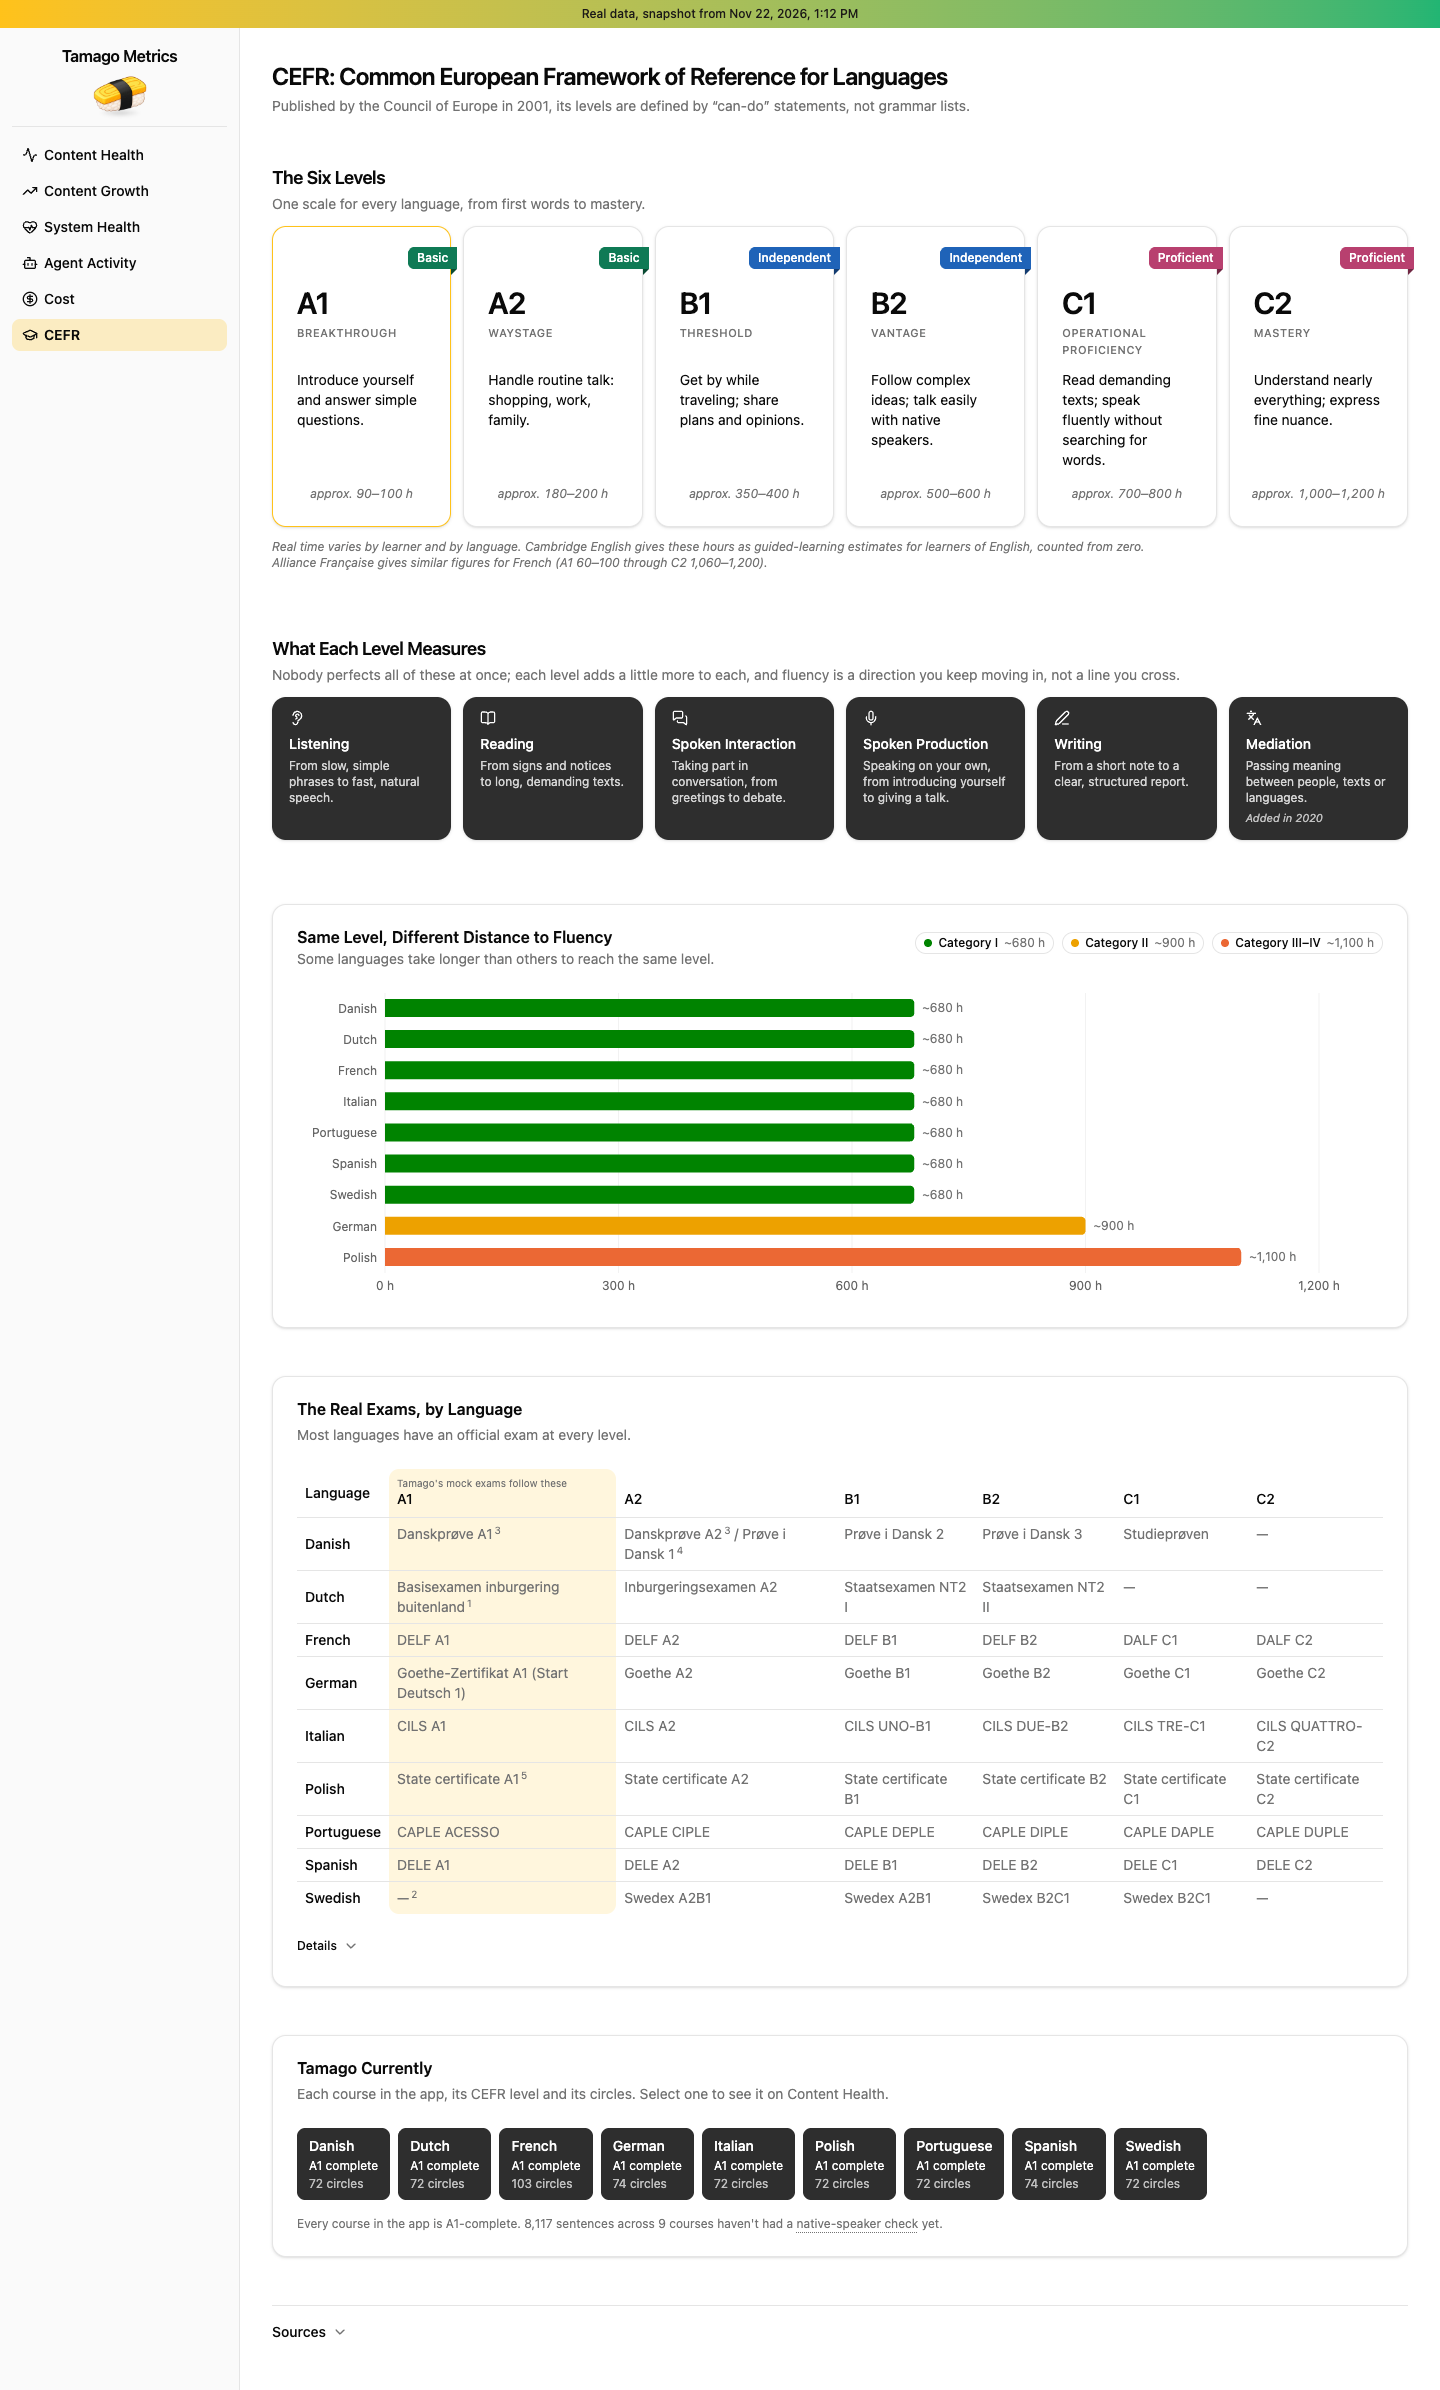
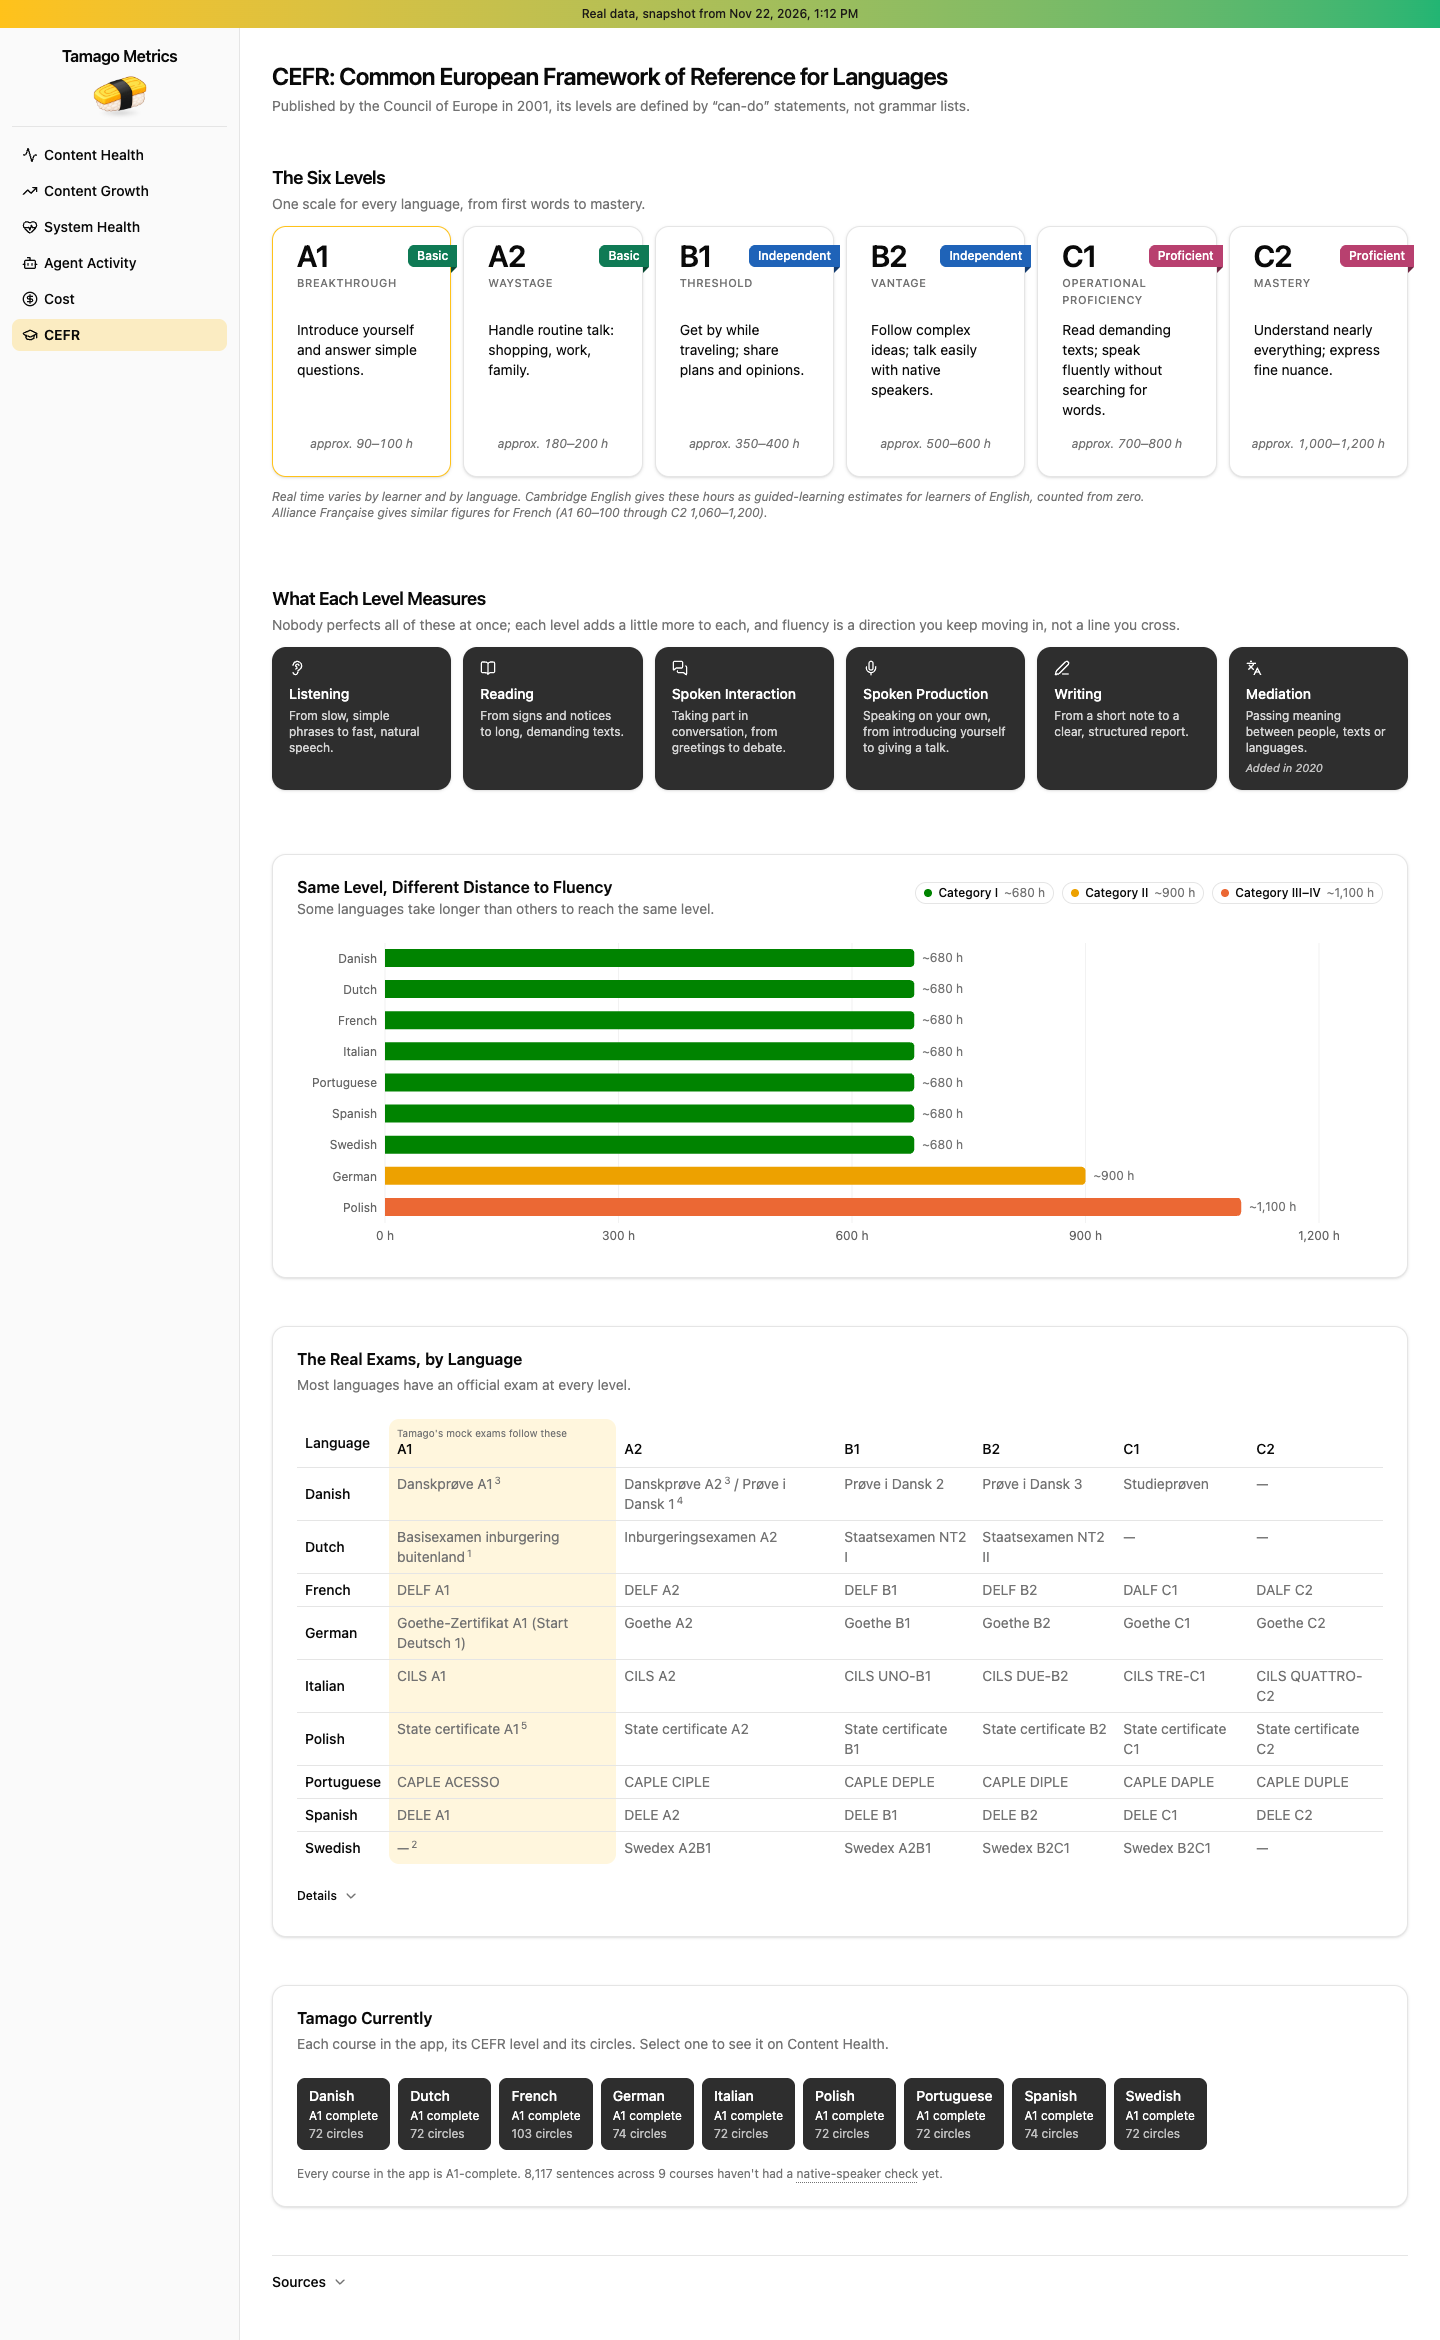
CEFR ladder: level code on the same line as its ribbon, the rest of the card moves up

diff --git a/src/layout/CefrLadder.tsx b/src/layout/CefrLadder.tsx
@@ -8,7 +8,7 @@ const shortName = new Map(cefrGroups.map((group) => [group.id, group.short]))
 
 /**
  * The six CEFR levels as a ladder of cards: six across on a wide screen, fewer as it narrows, one column on a phone.
- * Each card: the group ribbon (top right, wrapping behind the card's edge), the code and name, the can-do line, then the hours. The cards share their rows
+ * Each card: the code with the group ribbon on the same line (wrapping behind the card's edge), the name, the can-do line, then the hours. The cards share their rows
  * (subgrid), so each of those starts at the same height across a row, however long a name or a can-do line.
  * The A1 card's yellow border marks the highest level a Tamago course has completed.
  */
@@ -20,9 +20,12 @@ export function CefrLadder() {
           <li key={level.code} className="row-span-3 grid min-w-0 grid-rows-subgrid">
             <Card className={`row-span-3 grid grid-rows-subgrid gap-3 py-5 ${level.tamagoBadge ? 'border-tamago-yellow' : ''}`}>
               <CardHeader className="content-start gap-1">
-                {/* Past the header padding (24px) and the border (1px) by the ribbon's 6px overhang. */}
-                <CefrGroupRibbon group={level.group} label={shortName.get(level.group) ?? level.group} className="-mr-[31px] mb-3 justify-self-end" />
-                <p className="text-3xl font-semibold tracking-tight">{level.code}</p>
+                {/* The code and the ribbon share one line, centred on each other. The ribbon runs past the header
+                    padding (24px) and the border (1px) by its 6px overhang. */}
+                <div className="-mt-1.5 flex items-center justify-between gap-2">
+                  <p className="text-3xl leading-none font-semibold tracking-tight">{level.code}</p>
+                  <CefrGroupRibbon group={level.group} label={shortName.get(level.group) ?? level.group} className="-mr-[31px]" />
+                </div>
                 <p className="text-[11px] font-medium tracking-wider text-muted-foreground uppercase">{level.name}</p>
               </CardHeader>
               <CardContent className="text-sm">{level.canDo}</CardContent>
